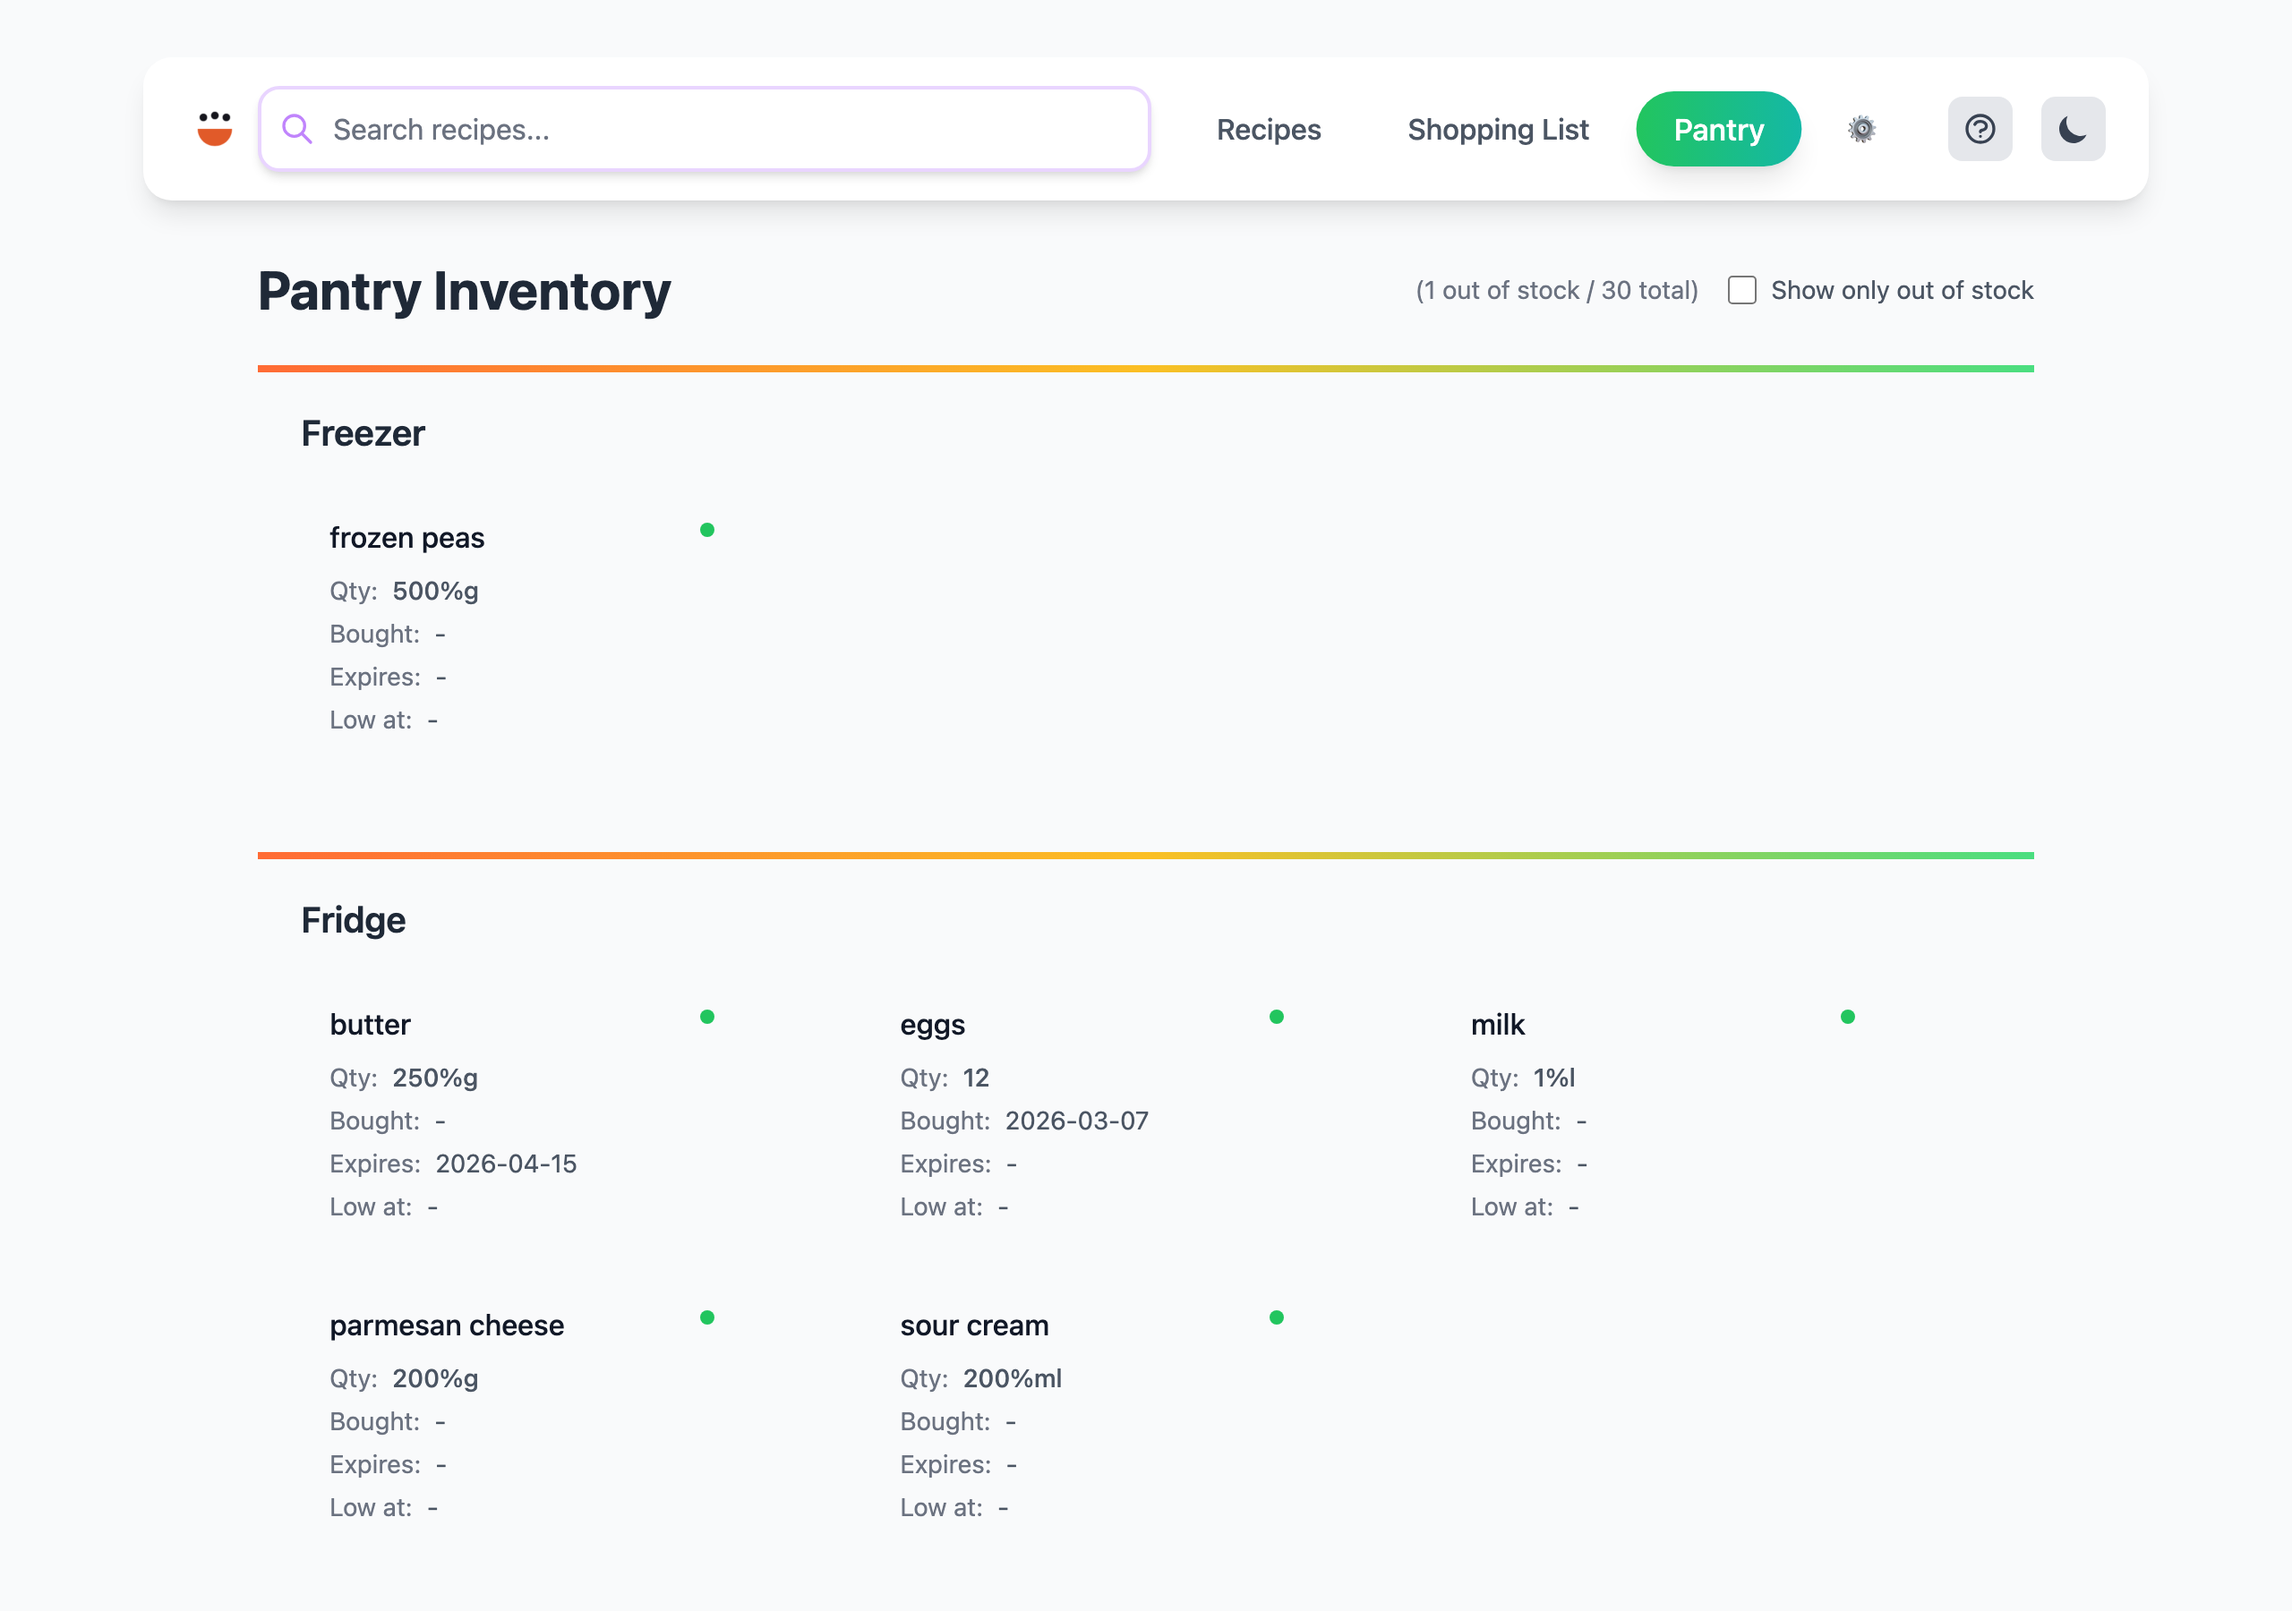
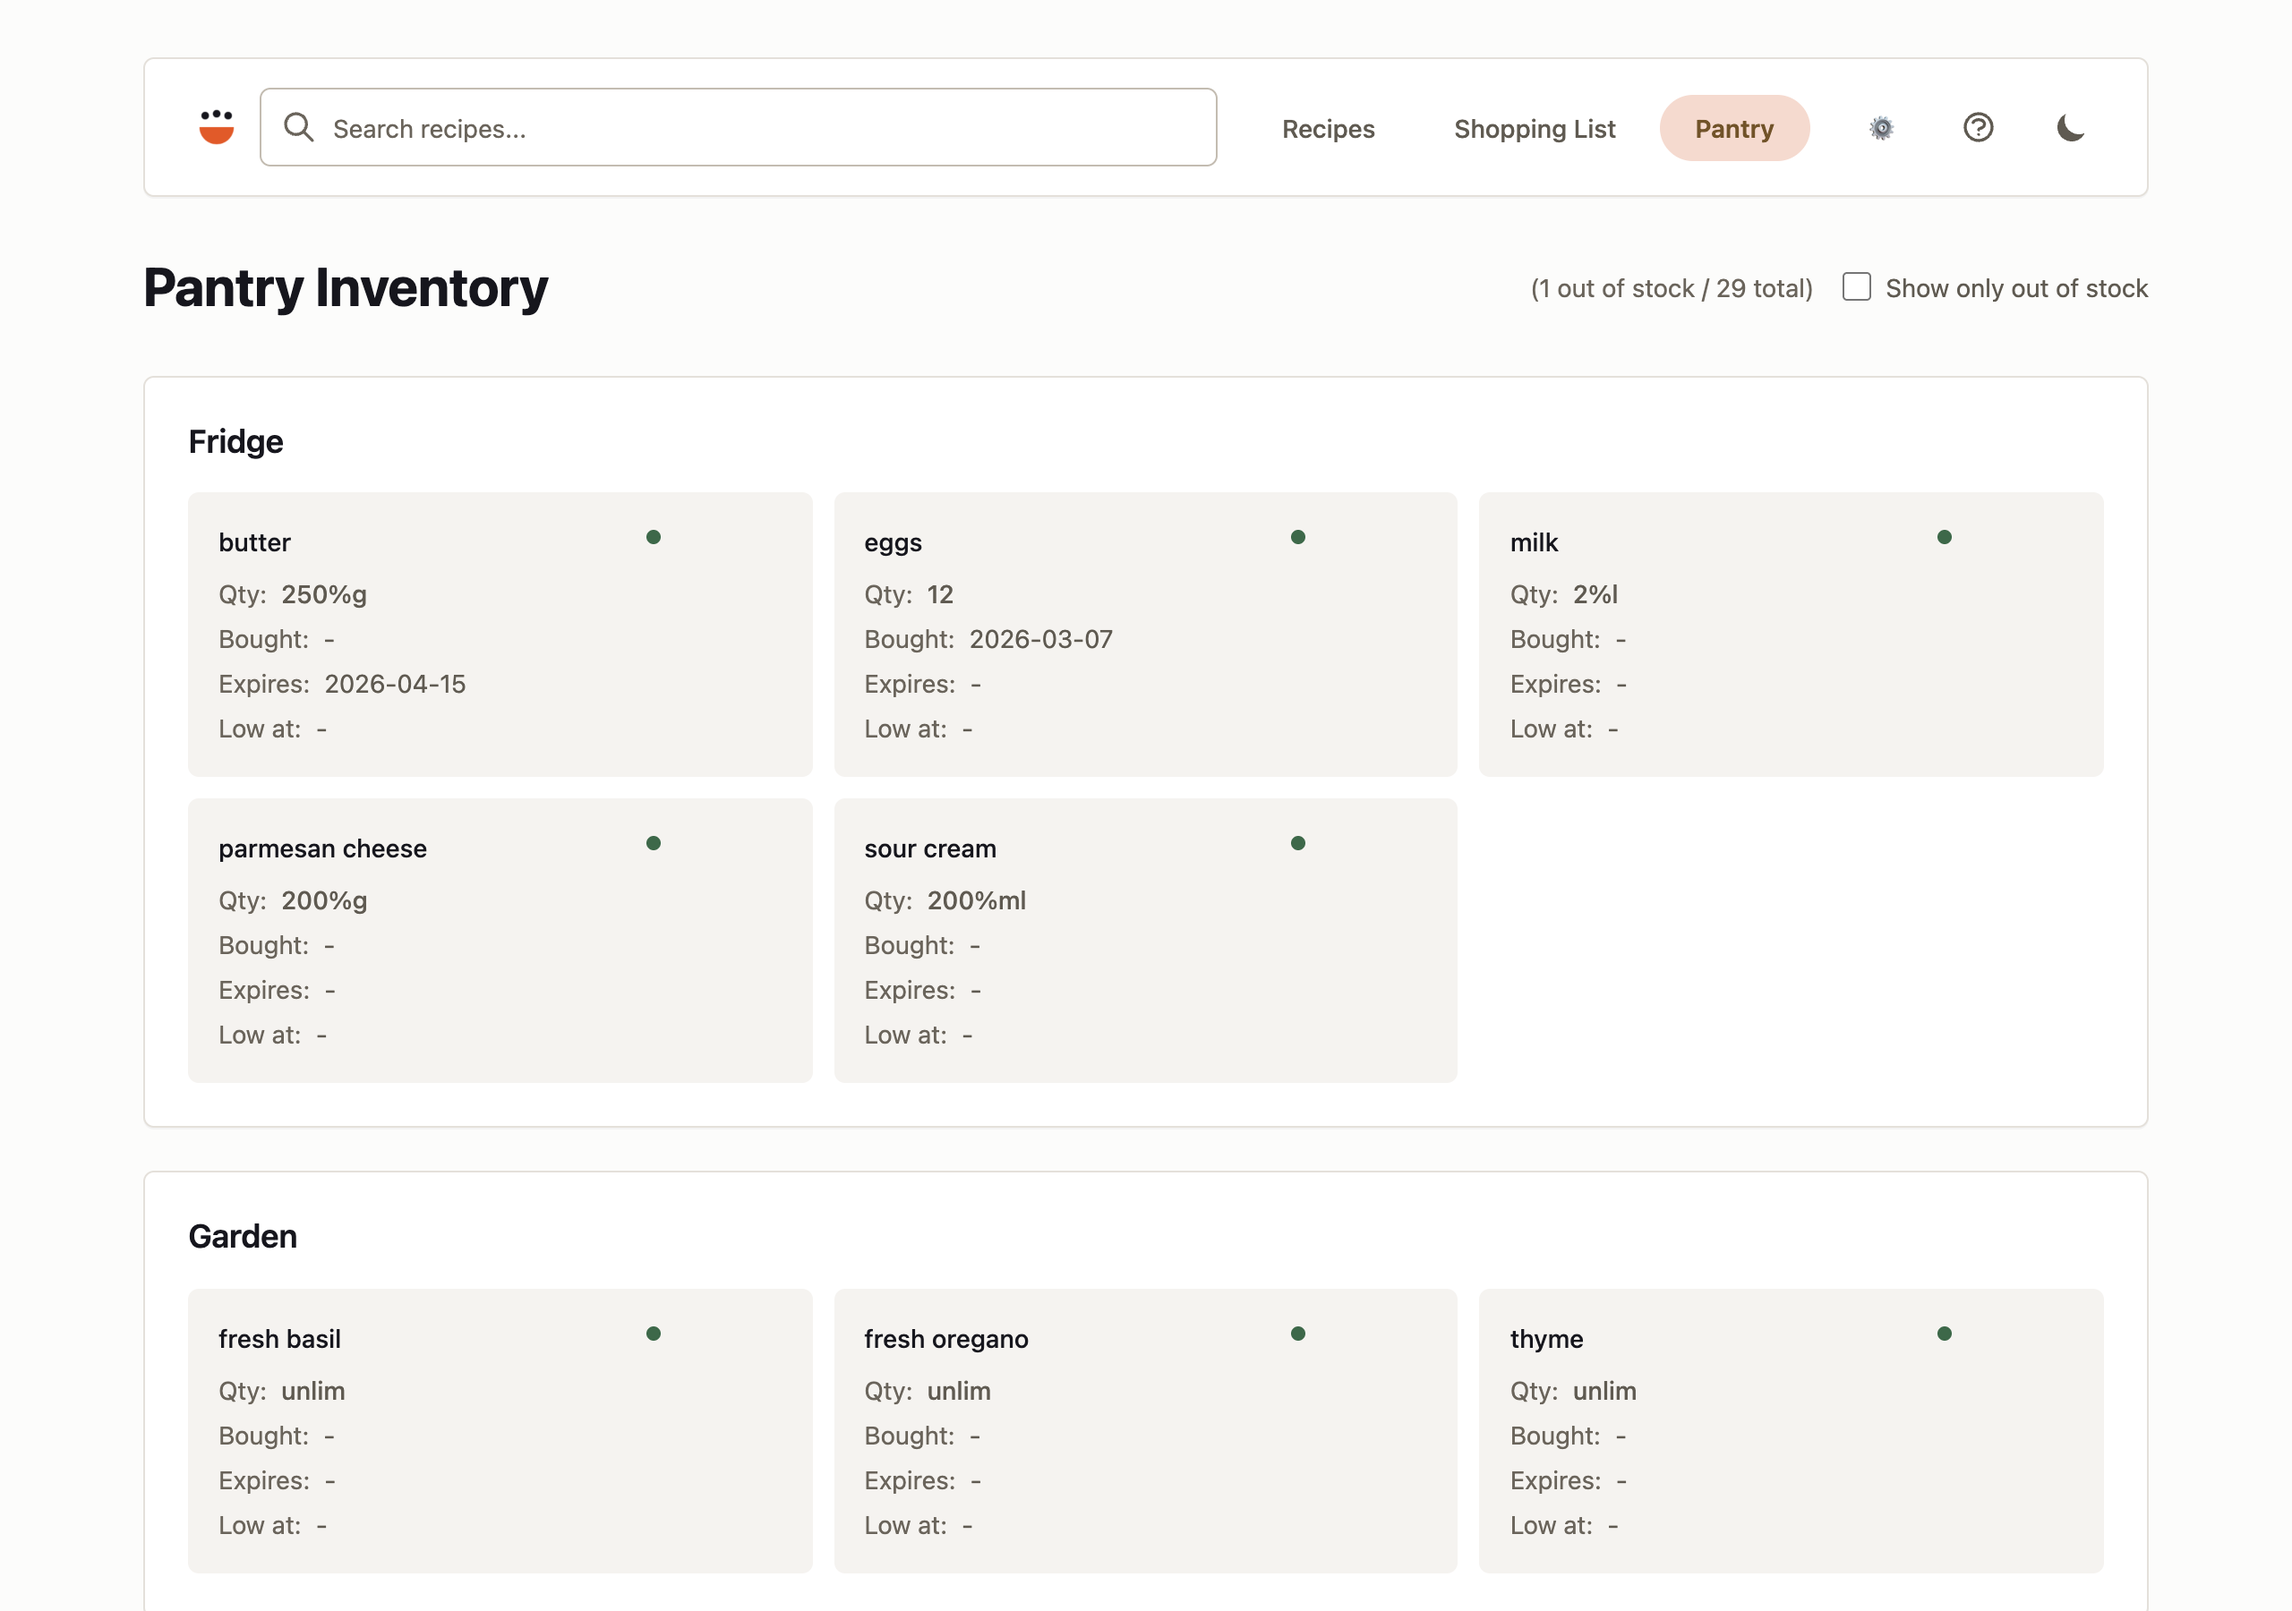
docs: refresh server screenshots for the new UI
Retaken from demo.cooklang.org (1280x900 @2x, light mode) after the
flat redesign. Same files cooklang.org now serves, so the site's
sync-cli-docs.sh no longer copies the old ones back. Bumps the README
cache-buster to v=3.

diff --git a/README.md b/README.md
@@ -139,11 +139,11 @@ Serving Web UI on http://localhost:9080
 Serving recipe files from: "/Users/chefalexey/recipes"
 ```
 
-<img width="600" alt="recipes" src="docs/screenshots/recipe-list.png?v=2" />
-<img width="600" alt="recipe" src="docs/screenshots/recipe-detail.png?v=2" />
-<img width="600" alt="menu" src="docs/screenshots/menu.png?v=2" />
-<img width="600" alt="shopping list" src="docs/screenshots/shopping-list.png?v=2" />
-<img width="600" alt="pantry" src="docs/screenshots/pantry.png?v=2" />
+<img width="600" alt="recipes" src="docs/screenshots/recipe-list.png?v=3" />
+<img width="600" alt="recipe" src="docs/screenshots/recipe-detail.png?v=3" />
+<img width="600" alt="menu" src="docs/screenshots/menu.png?v=3" />
+<img width="600" alt="shopping list" src="docs/screenshots/shopping-list.png?v=3" />
+<img width="600" alt="pantry" src="docs/screenshots/pantry.png?v=3" />
 
 
 ## 📦 Installation
